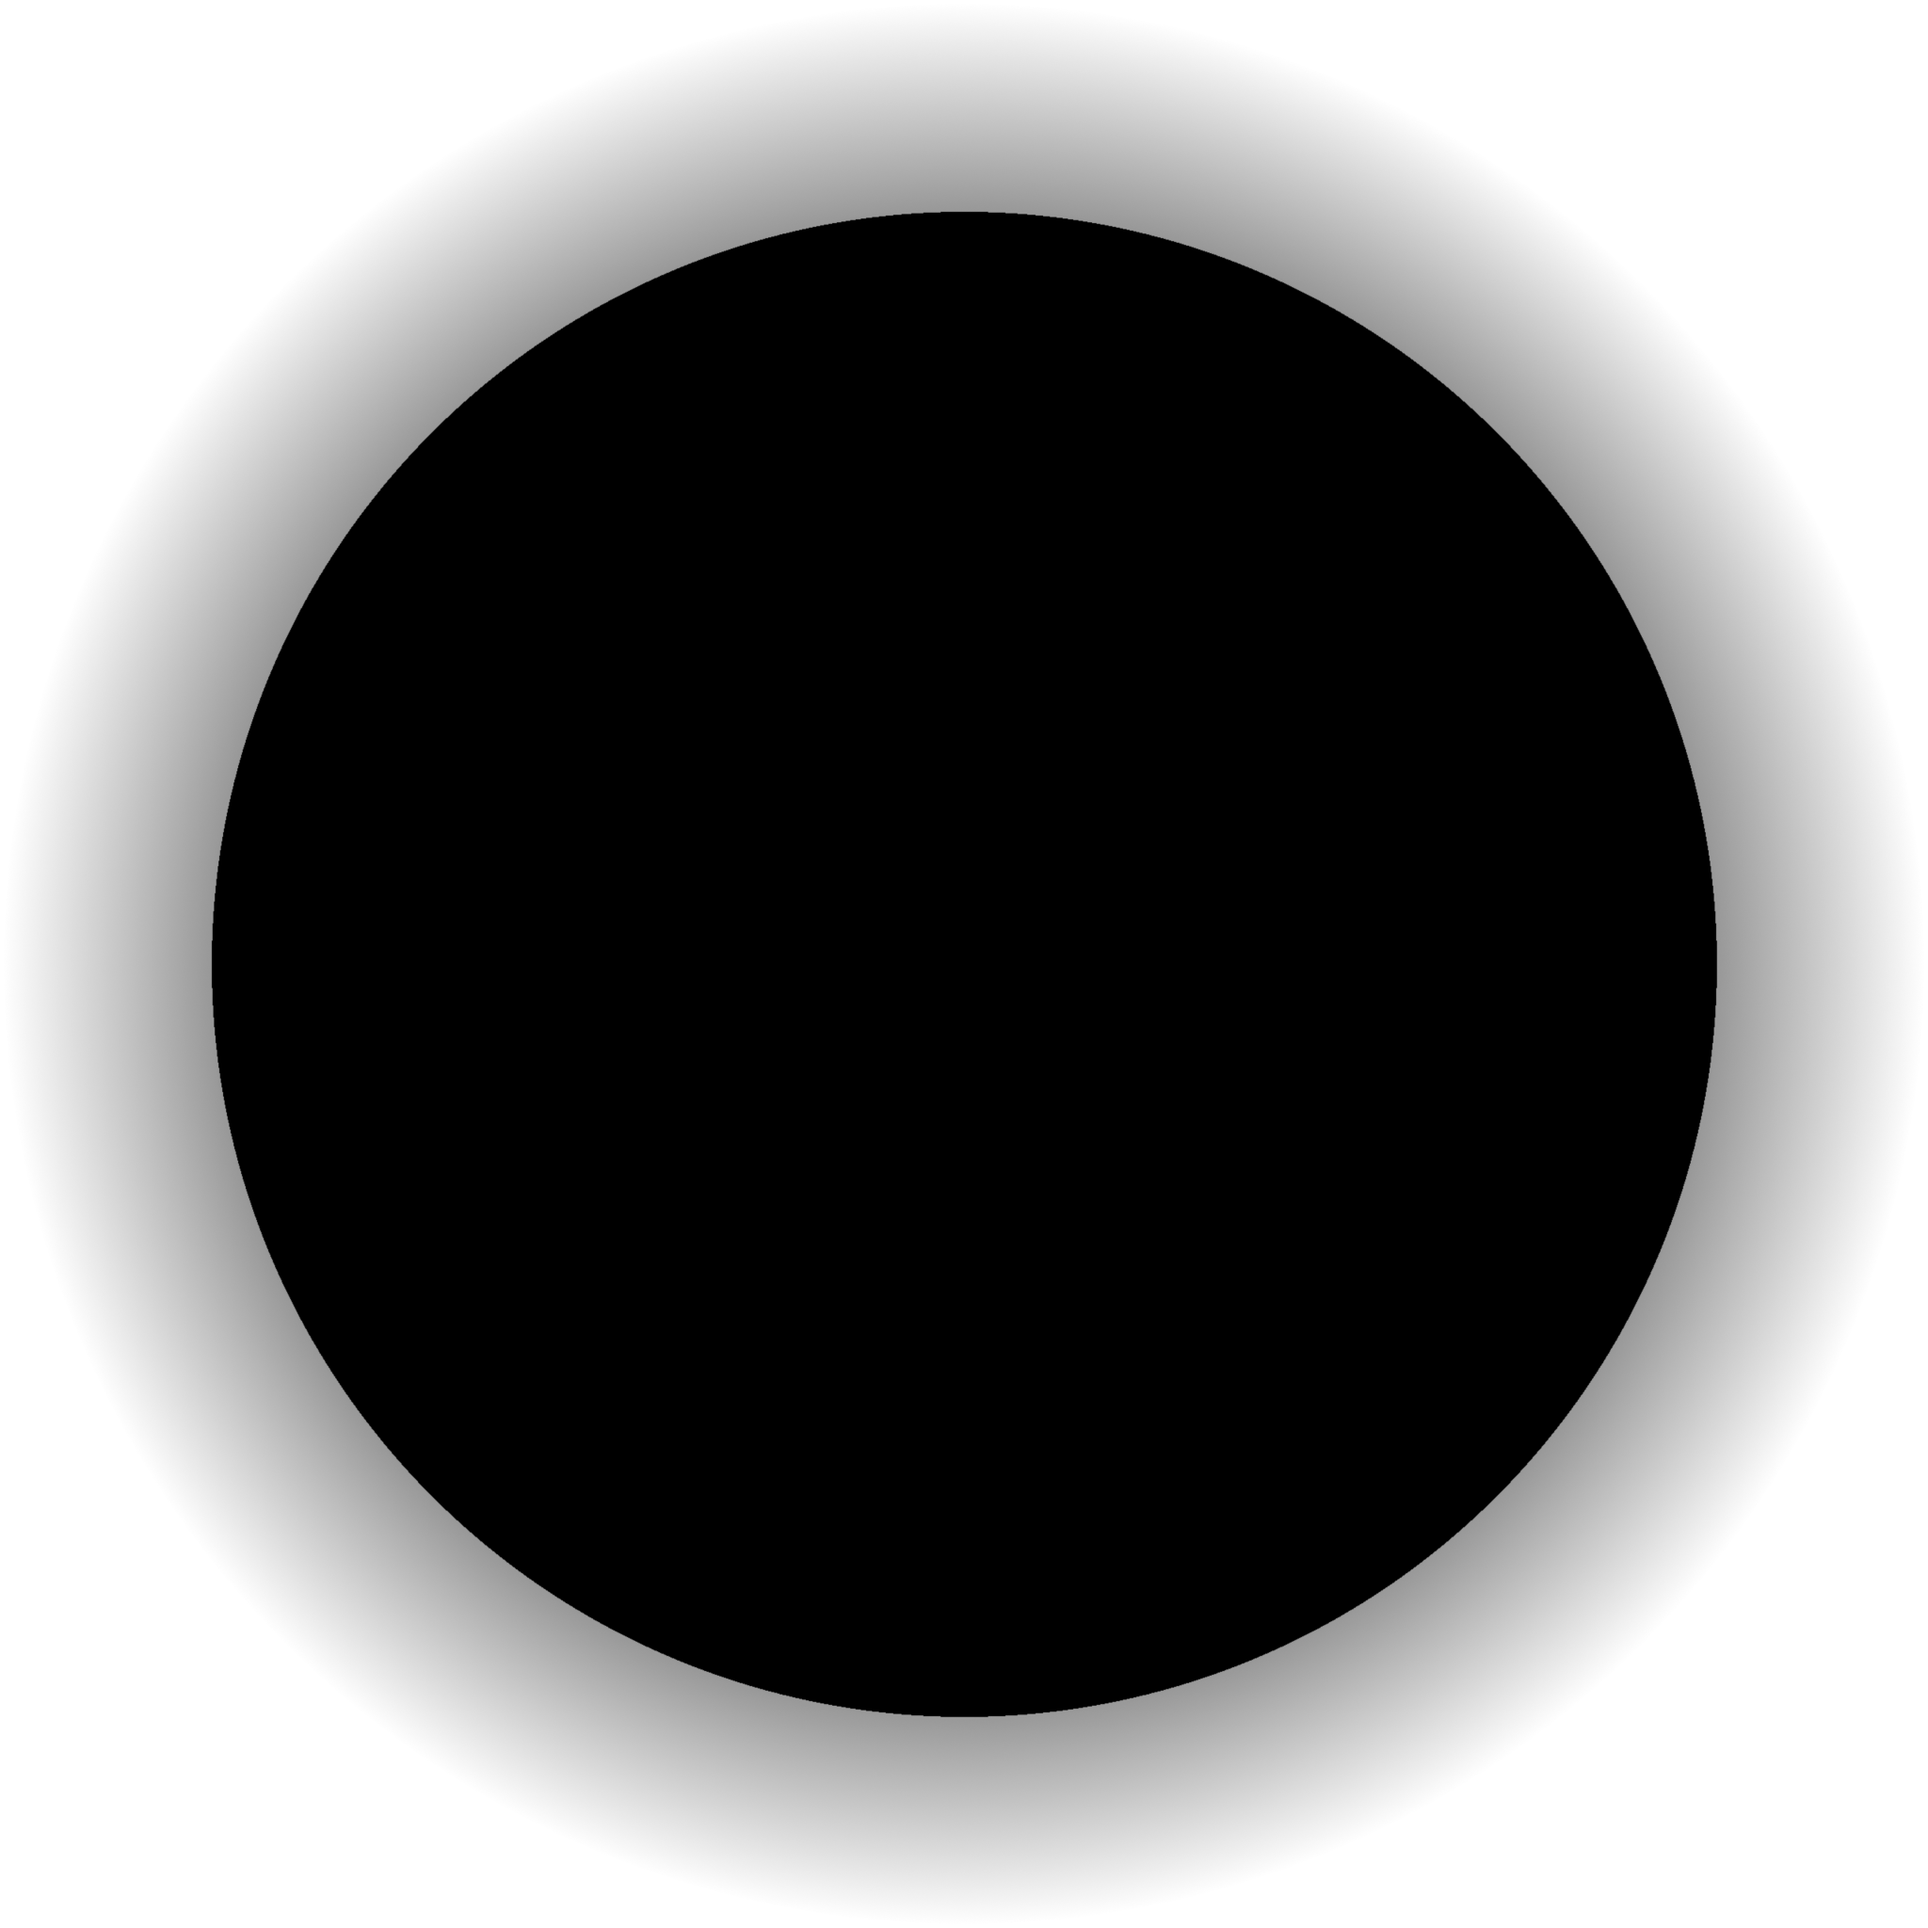
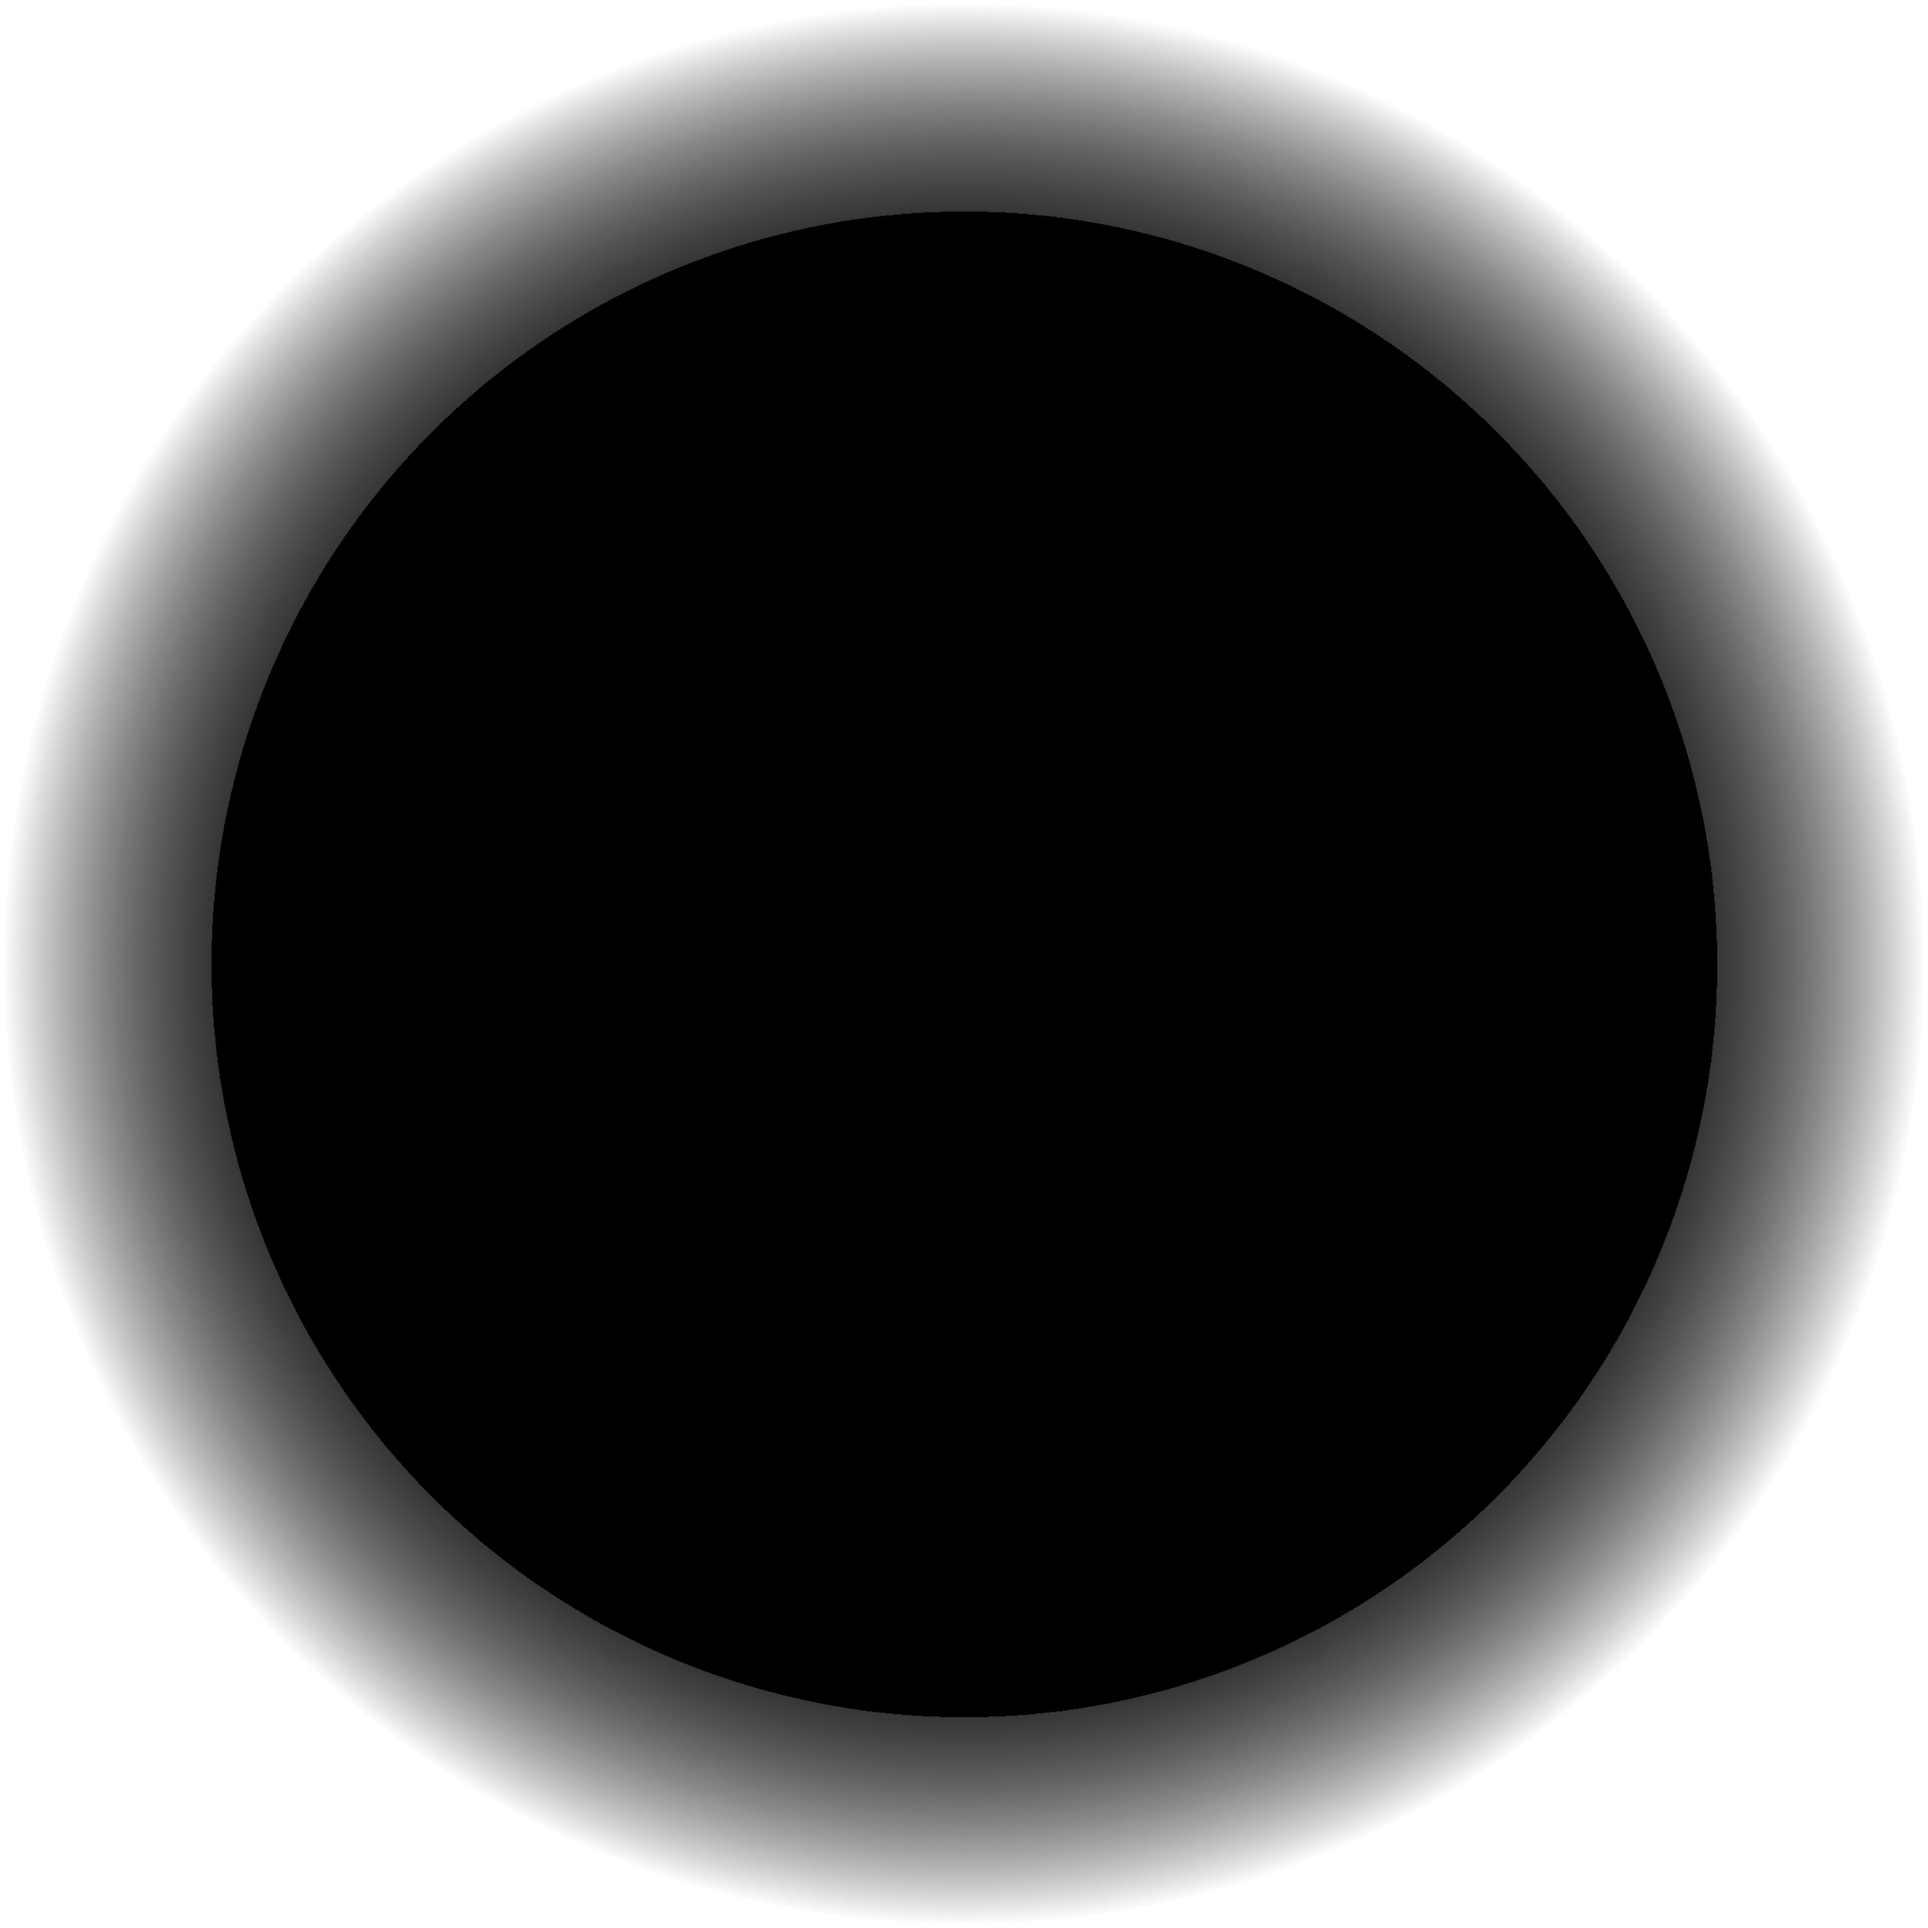
Fog looks good now.

Changed region(s): [[0.0, 0.0, 1.0, 1.0]]

diff --git a/FogOfWarPlus/Effects/FogOfWarPlusShader.cs b/FogOfWarPlus/Effects/FogOfWarPlusShader.cs
@@ -18,6 +18,6 @@ namespace FogOfWarPlus
 {
     public static partial class FogOfWarPlusShaderKeys
     {
-        public static readonly ValueParameterKey<float> FogOpacity = ParameterKeys.NewValue<float>(.60f);
+        public static readonly ValueParameterKey<float> FogOpacity = ParameterKeys.NewValue<float>(.75f);
     }
 }
